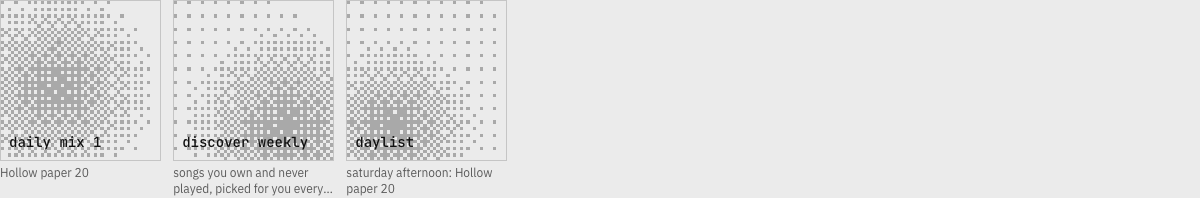
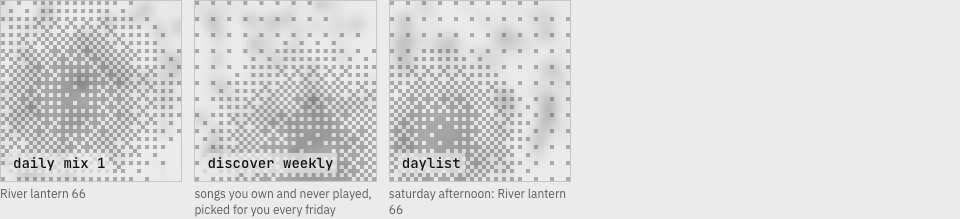
fix(app): harden dither covers
Review fixes for the dither canvas and the mix covers.

Changed region(s): [[0.0, 0.0, 0.5938, 1.0], [0.4062, 0.9394, 0.4375, 0.9697]]

diff --git a/apps/player/src/components/dither.tsx b/apps/player/src/components/dither.tsx
@@ -3,10 +3,10 @@ import { useEffect, useRef } from "react";
 import { colors } from "@/components/aura";
 import { subscribeTheme } from "@/lib/theme";
 
-const COLS = 48;
-const FRAME_MS = 120;
+const CELL_PX = 4;
+const FRAME_MS = 500;
 
-/** A dithered cover seeded by `id`. It drifts slowly while on screen, and holds one still frame under reduced motion. */
+/** Dithered ink dots over whatever is behind, seeded by `id`. They drift slowly while on screen and hold one frame under reduced motion. */
 export function Dither({ id, className }: { id: string; className?: string }) {
   const canvas = useRef<HTMLCanvasElement>(null);
 
@@ -17,57 +17,52 @@ export function Dither({ id, className }: { id: string; className?: string }) {
     const seed = ditherSeed(id);
     const still = matchMedia("(prefers-reduced-motion: reduce)");
     let visible = true;
-    let frame = 0;
-    let last = 0;
-    const paint = (time: number) => {
-      const rows = Math.max(1, Math.round((COLS * element.clientHeight) / Math.max(1, element.clientWidth)));
-      if (element.width !== COLS || element.height !== rows) {
-        element.width = COLS;
-        element.height = rows;
+    let timer = 0;
+    const paint = () => {
+      const scale = window.devicePixelRatio || 1;
+      const width = Math.max(1, Math.round(element.clientWidth * scale));
+      const height = Math.max(1, Math.round(element.clientHeight * scale));
+      if (element.width !== width || element.height !== height) {
+        element.width = width;
+        element.height = height;
       }
-      const { ink, paper } = colors();
-      const cells = ditherCells(COLS, rows, seed, time);
-      context.globalAlpha = 1;
-      context.fillStyle = paper;
-      context.fillRect(0, 0, COLS, rows);
-      context.fillStyle = ink;
+      const cell = Math.max(1, Math.round(CELL_PX * scale));
+      const cols = Math.ceil(width / cell);
+      const rows = Math.ceil(height / cell);
+      const cells = ditherCells(cols, rows, seed, still.matches ? 0 : performance.now() / 1000);
+      context.clearRect(0, 0, width, height);
+      context.fillStyle = colors().ink;
       context.globalAlpha = 0.3;
       for (let index = 0; index < cells.length; index += 1) {
-        if (cells[index]) context.fillRect(index % COLS, Math.floor(index / COLS), 1, 1);
+        if (cells[index]) context.fillRect((index % cols) * cell, Math.floor(index / cols) * cell, cell, cell);
       }
     };
-    const tick = (now: number) => {
-      frame = 0;
-      if (visible && !document.hidden && now - last >= FRAME_MS) {
-        last = now;
-        paint(now / 1000);
-      }
-      if (visible && !still.matches) frame = requestAnimationFrame(tick);
-    };
-    const restart = () => {
-      cancelAnimationFrame(frame);
-      frame = 0;
-      paint(0);
-      if (visible && !still.matches) frame = requestAnimationFrame(tick);
+    const sync = () => {
+      clearInterval(timer);
+      timer = 0;
+      paint();
+      if (visible && !document.hidden && !still.matches) timer = window.setInterval(paint, FRAME_MS);
     };
     const watch = new IntersectionObserver(([entry]) => {
       visible = entry?.isIntersecting ?? true;
-      restart();
+      sync();
     });
     watch.observe(element);
-    const resize = new ResizeObserver(() => paint(0));
+    const resize = new ResizeObserver(paint);
     resize.observe(element);
-    still.addEventListener("change", restart);
-    const unsubscribe = subscribeTheme(() => paint(0));
-    restart();
+    still.addEventListener("change", sync);
+    document.addEventListener("visibilitychange", sync);
+    const unsubscribe = subscribeTheme(paint);
+    sync();
     return () => {
-      cancelAnimationFrame(frame);
+      clearInterval(timer);
       watch.disconnect();
       resize.disconnect();
-      still.removeEventListener("change", restart);
+      still.removeEventListener("change", sync);
+      document.removeEventListener("visibilitychange", sync);
       unsubscribe();
     };
   }, [id]);
 
-  return <canvas ref={canvas} aria-hidden className={className} style={{ imageRendering: "pixelated" }} />;
+  return <canvas ref={canvas} aria-hidden className={className} />;
 }

diff --git a/packages/shared/src/dither.test.ts b/packages/shared/src/dither.test.ts
@@ -1,18 +1,37 @@
 import { expect, test } from "bun:test";
 import { ditherCells, ditherPath, ditherSeed } from "./dither";
 
-test("a seed gives the same dither, another seed another one, and it is neither empty nor full", () => {
+const fill = (cells: Uint8Array) => cells.reduce((sum, cell) => sum + cell, 0) / cells.length;
+
+test("a seed gives the same dither every time and another seed another one", () => {
   const first = ditherCells(32, 32, ditherSeed("mix-1"));
   expect(ditherCells(32, 32, ditherSeed("mix-1"))).toEqual(first);
   expect(ditherCells(32, 32, ditherSeed("mix-2"))).not.toEqual(first);
-  const on = first.reduce((sum, cell) => sum + cell, 0);
-  expect(on).toBeGreaterThan(32 * 32 * 0.1);
-  expect(on).toBeLessThan(32 * 32 * 0.9);
 });
 
-test("time moves the glow and the path covers exactly the on cells", () => {
+test("every seed leaves some cells on and some off", () => {
+  for (const name of ["a", "mix-1", "mix-2", "daily mix 3", "x".repeat(40)]) {
+    const share = fill(ditherCells(48, 48, ditherSeed(name)));
+    expect(share).toBeGreaterThan(0.1);
+    expect(share).toBeLessThan(0.9);
+  }
+});
+
+test("time moves the glow", () => {
   const seed = ditherSeed("mix-1");
   expect(ditherCells(32, 32, seed, 10)).not.toEqual(ditherCells(32, 32, seed, 0));
-  const cells = new Uint8Array([1, 1, 0, 1]);
-  expect(ditherPath(cells, 2, 5)).toBe("M0 0h10v5h-10zM5 5h5v5h-5z");
+});
+
+test("the path covers exactly the on cells of a real frame", () => {
+  const cols = 24;
+  const rows = 14;
+  const cells = ditherCells(cols, rows, ditherSeed("mix-1"), 3);
+  const drawn = new Uint8Array(cells.length);
+  for (const [, x, y, width] of ditherPath(cells, cols, 5).matchAll(/M(\d+) (\d+)h(\d+)v5h-\d+z/g)) {
+    for (let col = Number(x) / 5; col < (Number(x) + Number(width)) / 5; col += 1) drawn[(Number(y) / 5) * cols + col] = 1;
+  }
+  expect(ditherPath(new Uint8Array([1, 1, 1, 0, 1, 1]), 3, 2)).toBe("M0 0h6v2h-6zM2 2h4v2h-4z");
+  expect(fill(cells)).toBeGreaterThan(0);
+  expect([...drawn]).toEqual([...cells]);
+  expect(ditherPath(cells, cols, 5).match(/z/g)?.length).toBeLessThan(fill(cells) * cells.length);
 });

diff --git a/e2e/mixes.e2e.ts b/e2e/mixes.e2e.ts
@@ -23,16 +23,28 @@ async function playOneArtist(page: Page): Promise<void> {
 
 test("mix covers are dithered and drift, and hold one frame under reduced motion", async ({ page, signedIn }) => {
   await playOneArtist(page);
-  const cover = () => page.getByRole("list", { name: "made for you" }).locator("canvas").first();
+  const cover = () => page.getByRole("list", { name: "made for you" }).locator("canvas").nth(1);
   const snapshot = () => cover().evaluate((element: HTMLCanvasElement) => element.toDataURL());
   await page.emulateMedia({ reducedMotion: "reduce" });
   await signedIn.goto("/");
   await expect(cover()).toBeAttached();
+  const inked = await cover().evaluate((element: HTMLCanvasElement) => {
+    const pixels = element.getContext("2d")?.getImageData(0, 0, element.width, element.height).data ?? [];
+    let on = 0;
+    for (let index = 3; index < pixels.length; index += 4) if (pixels[index]) on += 1;
+    return on / (pixels.length / 4);
+  });
+  expect(inked).toBeGreaterThan(0.05);
+  expect(inked).toBeLessThan(0.7);
   const still = await snapshot();
-  await page.waitForTimeout(700);
+  await page.waitForTimeout(1_200);
   expect(await snapshot()).toBe(still);
   await page.emulateMedia({ reducedMotion: "no-preference" });
-  await expect.poll(snapshot).not.toBe(still);
+  await expect.poll(snapshot, { timeout: 10_000 }).not.toBe(still);
+  const moved = await snapshot();
+  await expect.poll(snapshot, { timeout: 10_000 }).not.toBe(moved);
+  await page.emulateMedia({ reducedMotion: "reduce" });
+  await expect.poll(snapshot, { timeout: 10_000 }).toBe(still);
 });
 
 test("songs you play become daily mixes on home, saved as navidrome playlists too", async ({ page, signedIn }) => {

diff --git a/apps/player/src/components/mix-row.tsx b/apps/player/src/components/mix-row.tsx
@@ -3,6 +3,7 @@ import { Button } from "@lodesong/ui/components/button";
 import { useQuery } from "@tanstack/react-query";
 import { PlayIcon } from "lucide-react";
 import { useEffect } from "react";
+import { Aura } from "@/components/aura";
 import { Dither } from "@/components/dither";
 import { Section } from "@/components/library";
 import { Link } from "@/components/link";
@@ -106,8 +107,11 @@ export function MixRow() {
           const href = playlist ? `/playlist/${playlist.id}` : undefined;
           const cover = (
             <span className="relative block aspect-square w-full overflow-hidden border">
-              <Dither id={`${mix.id}-${day}`} className="size-full" />
-              <span className="absolute inset-0 flex items-end p-2 font-medium font-mono text-sm">{mix.name}</span>
+              <Aura id={`${mix.id}-${day}`} songs={mix.songs} className="size-full" />
+              <Dither id={`${mix.id}-${day}`} className="absolute inset-0 size-full" />
+              <span className="absolute inset-0 flex items-end p-2 font-medium font-mono text-sm">
+                <span className="bg-background/70 px-1">{mix.name}</span>
+              </span>
             </span>
           );
           return (

diff --git a/apps/web/next.config.ts b/apps/web/next.config.ts
@@ -5,7 +5,7 @@ import type { NextConfig } from "next";
 const config: NextConfig = {
   // Hosted on Vercel (production and per-PR previews); the monorepo root is where its files come from.
   outputFileTracingRoot: fileURLToPath(new URL("../..", import.meta.url)),
-  transpilePackages: ["@lodesong/ui", "@lodesong/shared"],
+  transpilePackages: ["@lodesong/ui"],
   // Types are checked by the repo's `typecheck` task (TypeScript 7), not by next build.
   typescript: { ignoreBuildErrors: true },
   images: { formats: ["image/avif", "image/webp"] },

diff --git a/docs/design/discovery-status.md b/docs/design/discovery-status.md
@@ -7,7 +7,7 @@ Tracking for [#10](https://github.com/FindMalek/lodesong/issues/10).
 | 1 | radio and stats from Navidrome data (`getSimilarSongs2`, `getTopSongs`, scrobbles) | shipped ([radio](../mixes.md), stats, recap) |
 | 2 | AudioMuse-AI: similarity, smart shuffle, energy/mood/BPM features | shipped ([#56](https://github.com/FindMalek/lodesong/issues/56)) |
 | 3 | Groq: mood names, playlists from a prompt, daily / weekly mixes | shipped ([mixes](../mixes.md)) |
-| 4 | aura: monochrome generated visuals per playlist | shipped for playlists and lyrics; energy, valence and BPM from AudioMuse drive it when the server has them |
+| 4 | aura: monochrome generated visuals per playlist | shipped for playlists and lyrics; energy, valence and BPM from AudioMuse drive it when the server has them; made for you covers also get drifting dither dots on top of it (issue 485, first step) |
 
 ## Left
 
